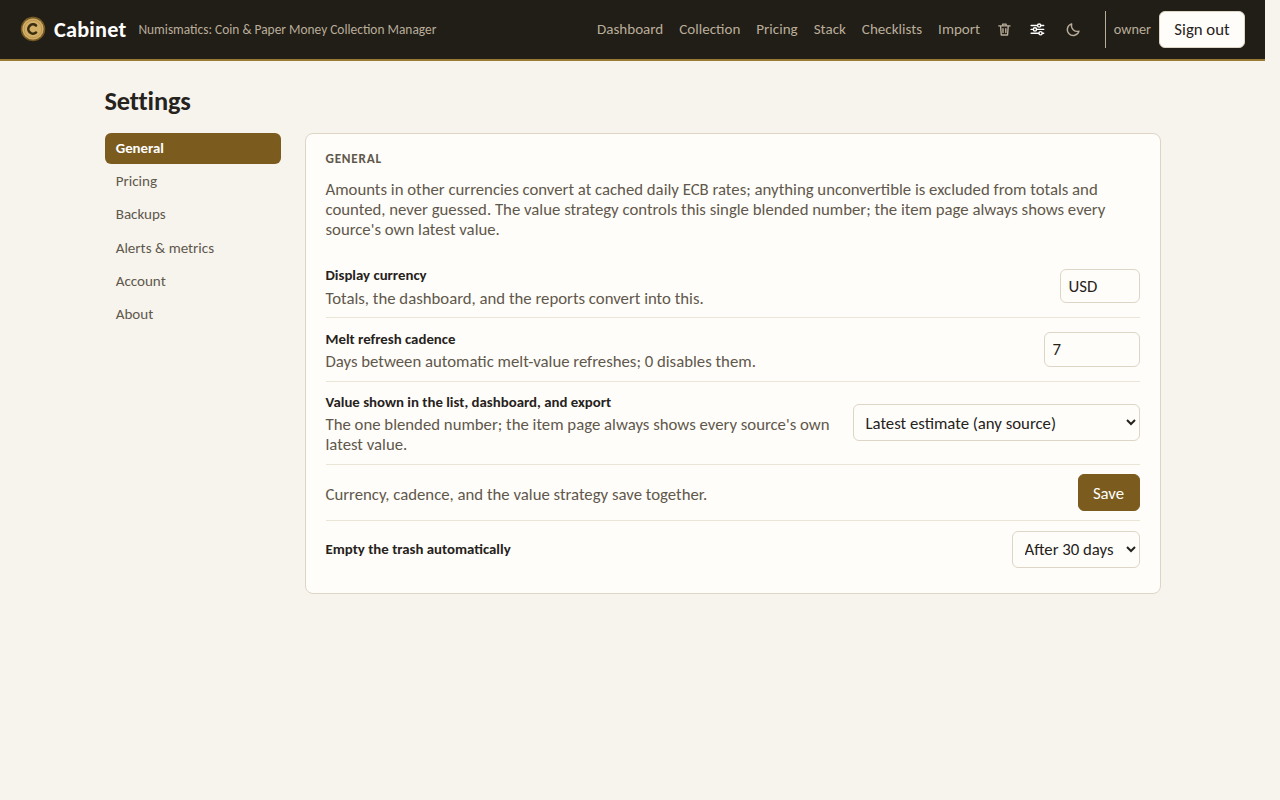
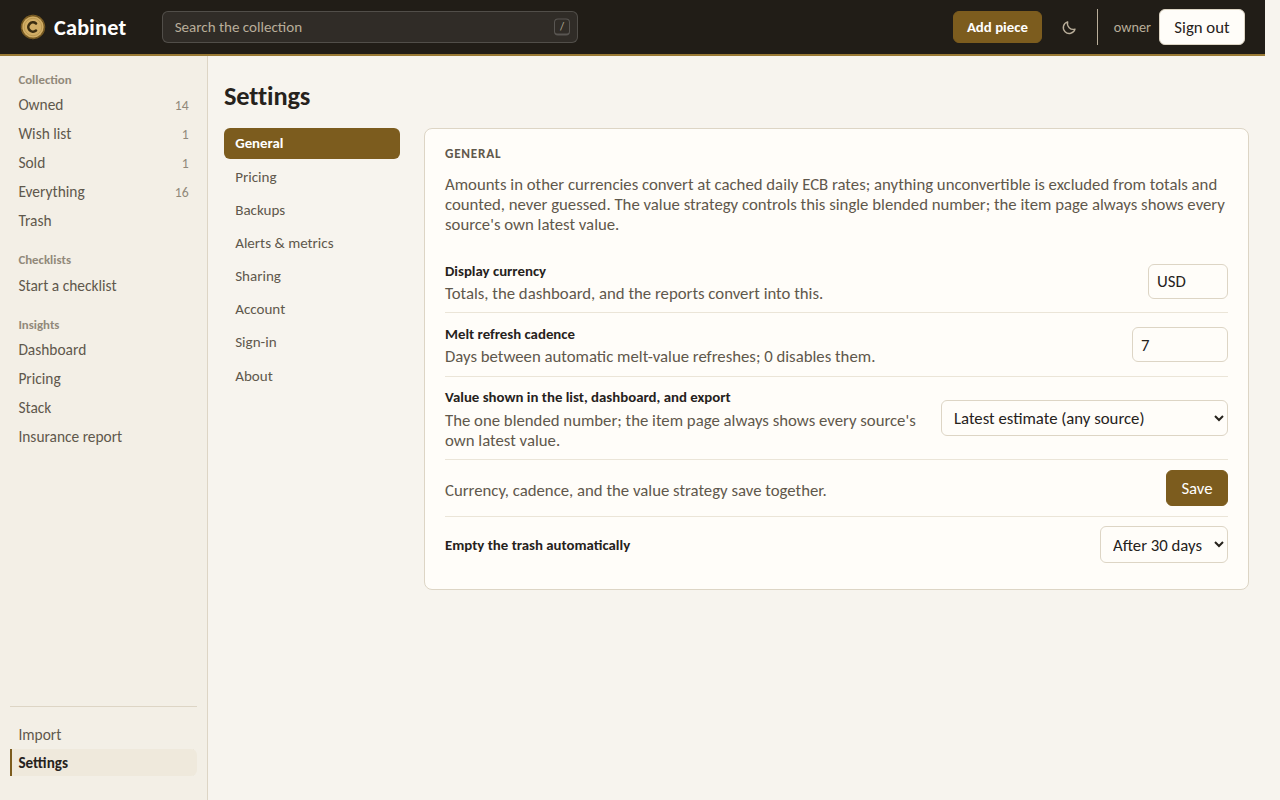
v0.34.0: the workbench layout
Version 0.34.0, the changelog dated, the README screenshots retaken with
the new layout (the collection shot shows a piece open beside the list),
and the docs that name the current release brought up to it.

diff --git a/CLAUDE.md b/CLAUDE.md
@@ -3,7 +3,7 @@
 Cabinet is a single-user, self-hosted web application for managing a coin and
 paper money collection. Subtitle: "Numismatics: Coin & Paper Money Collection
 Manager." Repo name is `cabinet-numismatics`; UI/display name is "Cabinet";
-the OpenAPI title is "Cabinet API." **Public on GitHub under MIT, released as v0.33.4, and deployed on the owner's
+the OpenAPI title is "Cabinet API." **Public on GitHub under MIT, released as v0.34.0, and deployed on the owner's
 homelab Docker Swarm from the published GHCR images**, so treat it as
 an open-source project: keep CONTRIBUTING/CHANGELOG/docs current, and bump the
 version in `backend/pyproject.toml` (surfaced by `GET /api/health`) with the
@@ -121,7 +121,7 @@ scripts/                 backup.sh, restore.sh, seed_demo.py
 
 ## Current status & next step
 
-Released as v0.33.4: roadmap Phase 7 is complete, migrations
+Released as v0.34.0: roadmap Phase 7 is complete, migrations
 `0001`–`0022` and `a0001`–`a0002`. v0.27.1 fixed two bugs found entering real pieces: a year is
 now optional (an ND checkbox with an optional attributed year), and a
 same-year Numista variety with no prices no longer blocks the one that has
@@ -330,7 +330,7 @@ the internet, whatever sign-in method or gateway sits in front, and the
 same paragraph is copied verbatim into security.md, README.md, SECURITY.md,
 and `.env.example`. Review briefs and reviews stay local (gitignored), as
 they have since v0.33.0's spec was reviewed.
-**In progress (14 October 2026):** the workbench layout on branch `workbench-layout` (a sidebar shell, the collection as a list with the selected piece in an inspector, facts edited in place, and a lookup-first quick add at `/items/add`); see "The workbench layout" in the implementation notes.
+**v0.34.0 (14 October 2026)** shipped the workbench layout: a sidebar shell, the collection as a list with the selected piece in an inspector, facts edited in place, and a lookup-first quick add at `/items/add`; see "The workbench layout" in the implementation notes.
 **Next, in order:** the road to v1.0.0's remaining items (a CI check
 against a breaking OpenAPI change, "Add a run" and the Numista banknote
 mapping confirmed against a live account, and a README and quick-start

diff --git a/README.md b/README.md
@@ -6,14 +6,14 @@
 
 [![CI](https://github.com/jsaumer/cabinet-numismatics/actions/workflows/ci.yml/badge.svg)](https://github.com/jsaumer/cabinet-numismatics/actions/workflows/ci.yml)
 [![License: MIT](https://img.shields.io/badge/license-MIT-blue.svg)](LICENSE)
-![Version](https://img.shields.io/badge/version-0.33.4-informational)
+![Version](https://img.shields.io/badge/version-0.34.0-informational)
 
 A self-hosted, single-user web application for cataloging a coin and paper
 money collection, managing photos of each item, and tracking estimated market
 value over time. Runs as a small Docker Compose stack; no external accounts
 or API keys required.
 
-**Status: v0.33.4 released.** 1.0 will mean a stable HTTP API; until then
+**Status: v0.34.0 released.** 1.0 will mean a stable HTTP API; until then
 the API may still change. See the [roadmap](docs/roadmap.md) for what's
 built and what's next, and the [changelog](CHANGELOG.md) for release detail.
 
@@ -377,7 +377,7 @@ from `.env.example`).
 | `TRUSTED_ASSERTION_ISSUER` | Optional: the `iss` the gateway's assertion must carry |
 | `TRUSTED_ASSERTION_AUDIENCE` | Optional: the `aud` the gateway's assertion must carry; never empty |
 | `SSO_CA_FILE`     | Optional: extra CA certificates trusted for a single sign-on provider or trusted-header gateway behind a local certificate authority |
-| `TAG`             | Optional, default `latest`: the image tag Compose names its builds with and the Swarm stack pulls, e.g. `0.33.4` |
+| `TAG`             | Optional, default `latest`: the image tag Compose names its builds with and the Swarm stack pulls, e.g. `0.34.0` |
 
 External data sources (both free, keyless, and only contacted when needed,
 with cached fallbacks): gold-api.com for metal spot prices and

diff --git a/docs/roadmap.md b/docs/roadmap.md
@@ -7,8 +7,8 @@ cataloging, valuation, and insights. Open-sourcing is a possible endgame, so
 phases that matter for that (docs, packaging, polish) are called out explicitly
 rather than assumed.
 
-**Status (September 2026): v0.33.4 (single sign-on, and its first-look
-fixes) is the latest published release**, with versioned images published to GHCR from each
+**Status (October 2026): v0.34.0 (the workbench layout) is the latest
+published release**, with versioned images published to GHCR from each
 tagged release and running on a homelab Docker Swarm. Phases 0–5 are
 built, pricing-program M1–M5 are done (settings
 backbone, the Numista and PCGS adapters, per-source value display with a
@@ -764,7 +764,7 @@ pieces turned up, each shipped as a small release:
   delete button sat under the next tile's arrow), and a value typed in by
   mistake could not be removed. Both fixed; a price source's values are
   still kept.
-- Unreleased: the owner found the interface read as generic and chose a
+- ✔ v0.34.0: the owner found the interface read as generic and chose a
   "workbench" layout from three options (workbench, catalogue, holdings)
   prototyped on 14 October 2026: a sidebar, and the collection as a list
   with the selected piece open beside it, facts edited in place, and a

diff --git a/docs/architecture.md b/docs/architecture.md
@@ -186,7 +186,7 @@ app's Settings page and stored in the database.
 | `IMPORT_DIR`      | Where uploaded import files wait between preview and import (default: a temp folder; kept a day) |
 | `RESTORE_ENABLED` | In-app restore (default `true`); `false` makes every restore endpoint answer 404 and hides it in Settings |
 | `RESTORE_MAX_GB`  | Largest archive that may be uploaded for a restore, in GB (default `20`, which is also what nginx allows) |
-| `TAG`             | Image tag Compose names its builds with and the Swarm stack pulls (default `latest`; e.g. `0.33.4`) |
+| `TAG`             | Image tag Compose names its builds with and the Swarm stack pulls (default `latest`; e.g. `0.34.0`) |
 | `PUBLIC_ORIGINS`  | Required. The exact origins browsers use (`https://cabinet.example.com`), comma-separated; read by the backend (checked at start) and the proxy (its Host names) |
 | `ALLOWED_HOSTS`   | Extra Host names nginx answers (`cabinet_proxy`, a LAN name); any other Host gets no response |
 | `AUTH_INSECURE_HTTP` | Sign-in cookies without `Secure`, for a plain-http local stack; refused beside an https origin (default `false`) |

diff --git a/docs/deployment.md b/docs/deployment.md
@@ -75,7 +75,7 @@ Edit `.env`:
   answer 404 and `scripts/restore.sh` is the only way).
 - `RESTORE_MAX_GB` (optional, default `20`): the largest archive that may be
   uploaded for a restore. The bundled nginx allows 20 GB.
-- `TAG` (optional): pins the image tag, e.g. `TAG=0.33.4`. `--build` builds
+- `TAG` (optional): pins the image tag, e.g. `TAG=0.34.0`. `--build` builds
   locally whatever the tag; without `--build`, Compose pulls the published
   image of that tag from GHCR instead.
 
@@ -894,7 +894,7 @@ git clone https://github.com/jsaumer/cabinet-numismatics.git
 cd cabinet-numismatics
 cp .env.example .env        # edit secrets
 set -a; . ./.env; set +a    # stack deploy reads the shell, not .env
-TAG=0.33.4 CABINET_PORT=8080 docker stack deploy -c deploy/docker-stack.yaml cabinet
+TAG=0.34.0 CABINET_PORT=8080 docker stack deploy -c deploy/docker-stack.yaml cabinet
 ```
 
 `PUBLIC_ORIGINS` and `CABINET_PORT` are required by the stack file (deploy

diff --git a/CHANGELOG.md b/CHANGELOG.md
@@ -8,7 +8,7 @@ Database changes always ship as Alembic revisions. From 0.11.1 the backend
 applies them itself on startup; for earlier releases, run
 `docker compose exec backend alembic upgrade head` after upgrading.
 
-## [Unreleased]
+## [0.34.0] - 2026-10-14
 
 ### Added
 
@@ -47,6 +47,12 @@ applies them itself on startup; for earlier releases, run
 - `.gitattributes` makes every text file LF in every checkout, Windows
   included, so a working tree copied between machines no longer shows every
   file as changed.
+- Dependencies: React and react-dom 19.3, react-router-dom 7.18.4, Vite
+  8.3.1, Starlette 1.7.0, uvicorn 0.54.0, Mako 1.4.3, watchfiles 1.3.0, and
+  `actions/upload-artifact` 7. Dependabot now moves React and react-dom in
+  one pull request and leaves pydantic-core to move with pydantic.
+- The README screenshots are retaken with the new layout; the collection
+  shot shows a piece open beside the list.
 
 ## [0.33.4] - 2026-09-24
 

diff --git a/docs/screenshots/README.md b/docs/screenshots/README.md
@@ -7,7 +7,7 @@ page is captured twice, dark first because dark is Cabinet's default:
 |-------|------|
 | `signin-dark.png`, `signin-light.png` | `/login`, signed out |
 | `dashboard-dark.png`, `dashboard-light.png` | `/` |
-| `collection-dark.png`, `collection-light.png` | `/collection` |
+| `collection-dark.png`, `collection-light.png` | `/collection/<id>?status=owned`: the list with that piece open beside it (the 1280px capture is wide enough) |
 | `item-detail-dark.png`, `item-detail-light.png` | `/items/<id>` |
 | `settings-general-dark.png`, `settings-general-light.png` | `/settings/general` |
 

diff --git a/docs/backup-restore.md b/docs/backup-restore.md
@@ -144,7 +144,7 @@ encrypts every archive and keys its MAC.
   docker compose run --rm backend python -m app.cli backup-key new
   ```
 
-  (or `docker run --rm ghcr.io/jsaumer/cabinet-numismatics-backend:0.33.4
+  (or `docker run --rm ghcr.io/jsaumer/cabinet-numismatics-backend:0.34.0
   python -m app.cli backup-key new` where the stack isn't running). It
   prints a key in `age-keygen`'s format: save the whole output as the
   secret file, or put the `AGE-SECRET-KEY-1...` line in `BACKUP_KEY`. Keep

diff --git a/docs/implementation-notes.md b/docs/implementation-notes.md
@@ -2743,7 +2743,7 @@ The owner's first look at v0.33.0 live. Rules:
   three columns, details as `.provider-detail` lines under the name, the
   subject wrapping anywhere, inside `.table-scroll`.
 
-## The workbench layout (unreleased)
+## The workbench layout (v0.34.0)
 
 Chosen by the owner on 14 October 2026 from three prototypes (workbench,
 catalogue, holdings), after a review found the interface read as a generic
